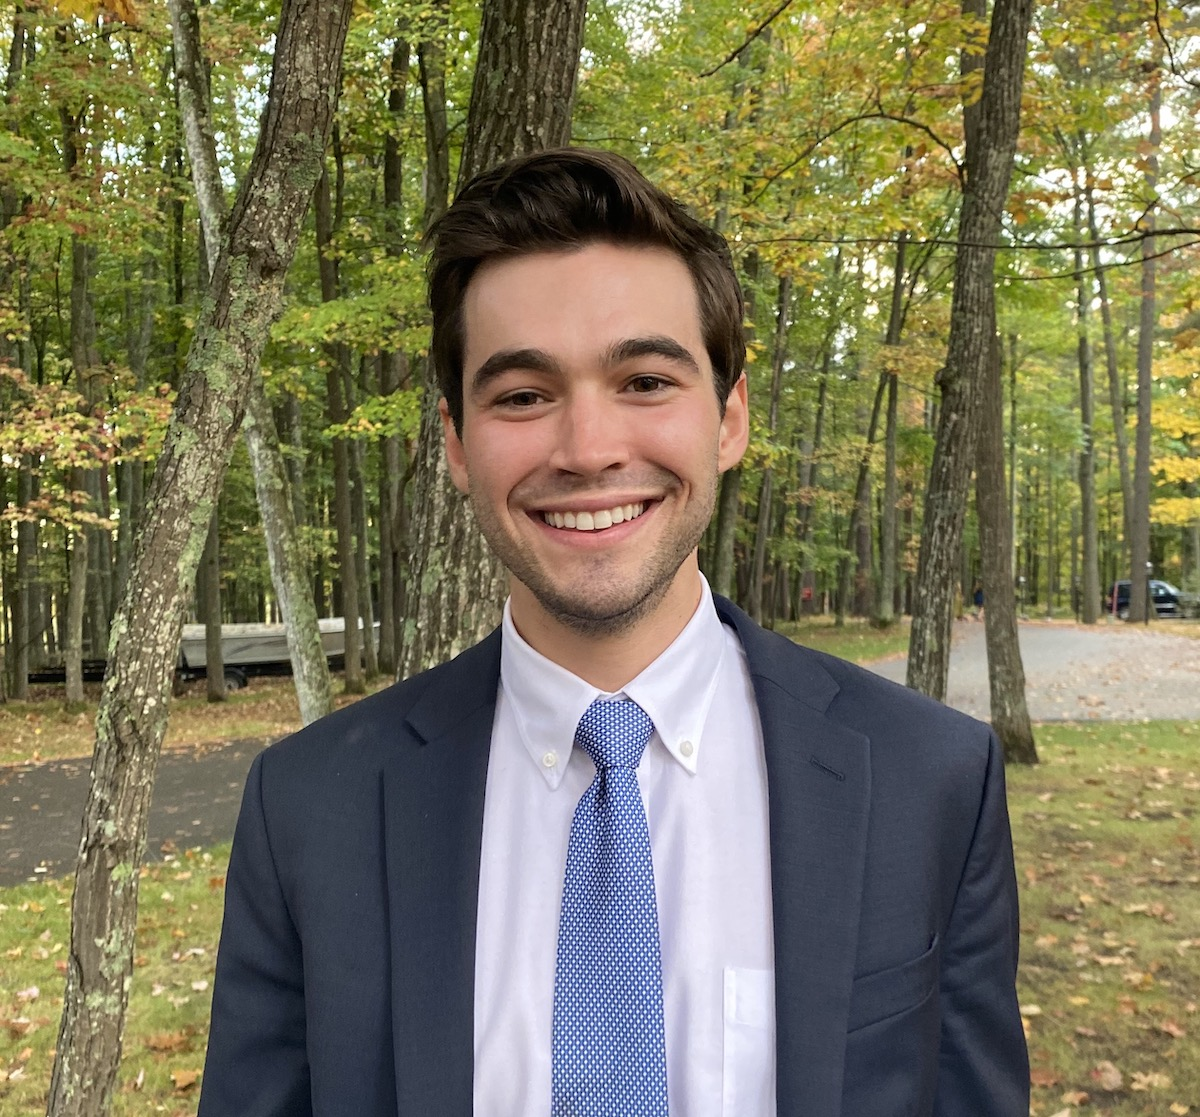
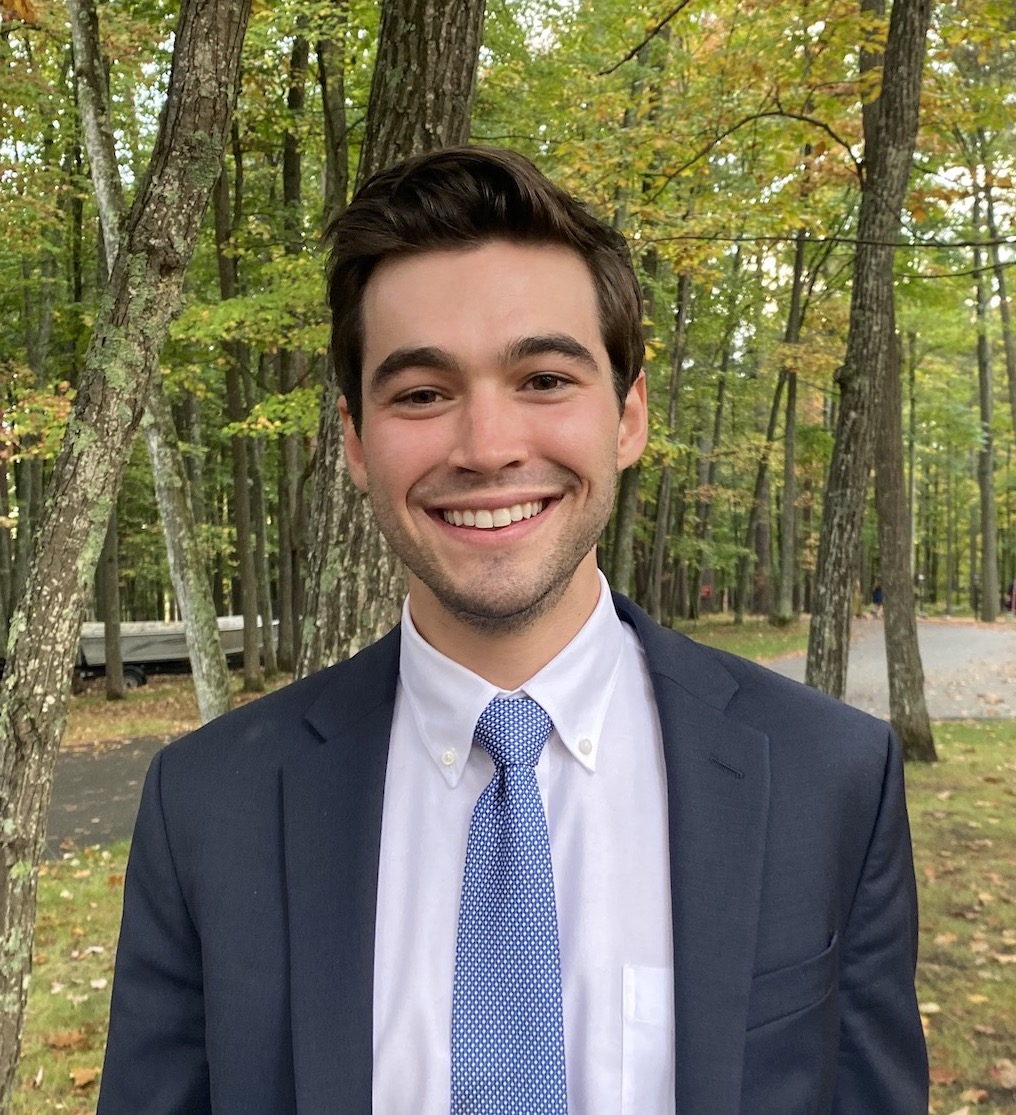
feat: improve about

diff --git a/src/pages/about.tsx b/src/pages/about.tsx
@@ -21,7 +21,7 @@ export default function About() {
           )}
         >
           <div className='layout flex flex-col items-center justify-center gap-3 text-left sm:items-start'>
-            <h1 className='mb-3 text-3xl sm:mb-1' data-fade='1'>
+            <h1 className='mb-3 text-3xl sm:mb-4 md:text-4xl' data-fade='1'>
               Hi, I&apos;m{' '}
               <span className='text-primary-700 dark:text-primary-400'>
                 Danny
@@ -34,18 +34,21 @@ export default function About() {
                 data-fade='2'
               >
                 I started coding in the Spring of my freshman year at college.
-                The language was Matlab, a mathy{' '}
+                The class taught the basics of programming and a language called
+                Matlab: a mathy,{' '}
                 <PrimaryLink href='https://www.mathworks.com/help/matlab/learn_matlab/matrices-and-arrays.html'>
                   matrix-based
                 </PrimaryLink>{' '}
-                language for handling data. It was unlike any other class I
-                took, and after I started watching Youtube videos on iOS
-                programming, I was hooked.
+                language for handling data. At the time I knew the assignments
+                were boring, but I was totally hooked and changed my major from
+                Mechanical Engineering to Computer Science before the semester
+                was over.
                 <br />
                 <br />
                 For work I&apos;ve built Chrome extensions and web apps, APIs
-                and AWS infrastructure. I&apos;ve handled authentication, CI/CD,
-                database migrations, E2E testing, the whole shabang.
+                and AWS infrastructure. Personally and professionally I&apos;ve
+                handled authentication, CI/CD, database migrations, E2E testing,
+                the whole shabang.
                 <br />
                 <br />
                 Originally I made this site because I wanted to show off my side
@@ -53,16 +56,17 @@ export default function About() {
                 <PrimaryLink href='https://tailwindcss.com/'>
                   TailwindCSS
                 </PrimaryLink>{' '}
-                and I thought this would be a good way to try it out.
+                and I thought this would be a good way to kill two birds at
+                once, or whatever.
               </p>
               <NextImage
                 src='/images/me.jpg'
                 alt='Me'
-                className='float-right w-11/12 p-8 sm:ml-4 sm:w-2/5 sm:p-0'
+                className='max-w-11/12 float-right w-11/12 p-8 sm:ml-4 sm:w-2/5 sm:p-0'
                 data-fade='3'
                 imgClassName='rounded-md'
-                width={1200}
-                height={1117}
+                width={1016}
+                height={1115}
               />
             </div>
           </div>

diff --git a/src/pages/index.tsx b/src/pages/index.tsx
@@ -11,11 +11,11 @@ import ButtonLink from '@/components/links/ButtonLink';
 import ProjectsSection from '@/components/ProjectsSection';
 import Seo from '@/components/Seo';
 
-import { ProjectType } from '@/types/Post';
+import { ProjectContent } from '@/types/Post';
 
 let saidHi = false;
 
-export default function HomePage(props: { projects: ProjectType[] }) {
+export default function HomePage(props: { projects: ProjectContent[] }) {
   const isLoaded = useLoaded();
 
   if (!saidHi) {
@@ -48,7 +48,7 @@ export default function HomePage(props: { projects: ProjectType[] }) {
               </p>
               <p className='text-md mt-4' data-fade='4'>
                 <ArrowLink href='https://github.com/danielchines/dannyhines.io'>
-                  See this code on Github
+                  View on Github
                 </ArrowLink>
               </p>
               <ButtonLink
